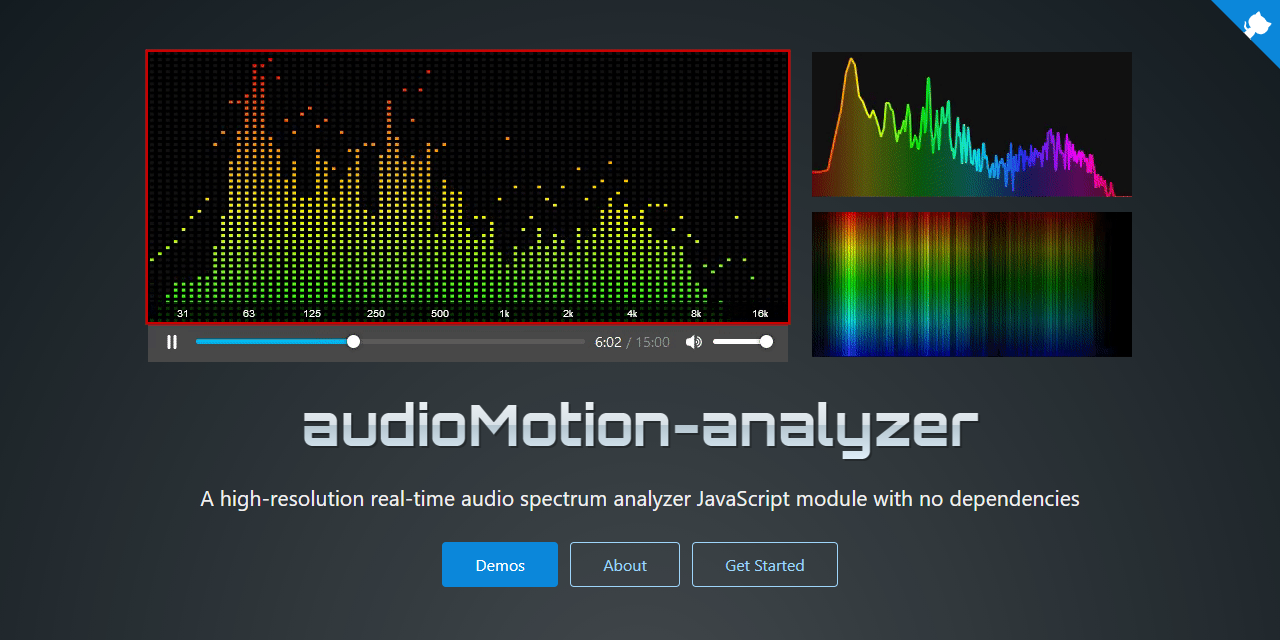
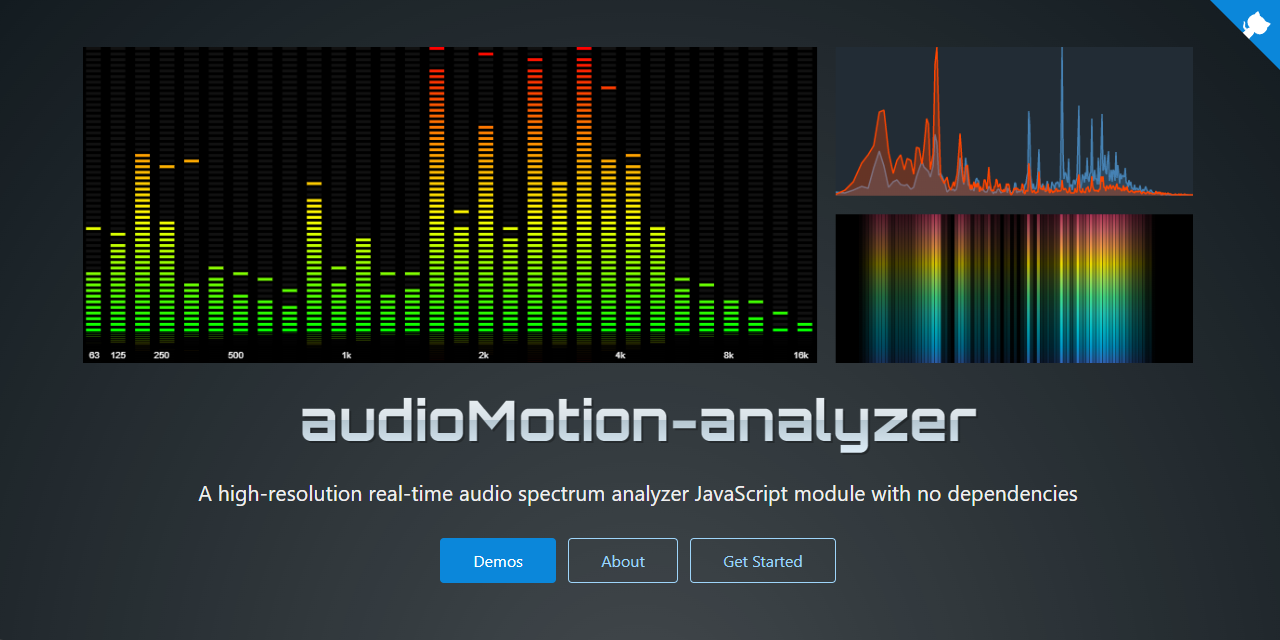
Update coverpage animation and project's cover image.

diff --git a/README.md b/README.md
@@ -39,7 +39,7 @@ What users are saying:
 
 ## Online demos
 
-[![demo-animation](img/demo.gif)](https://audiomotion.dev/demo/)
+[![demo-animation](img/demo.webp)](https://audiomotion.dev/demo/)
 
 ?> https://audiomotion.dev/demo/
 

diff --git a/coverpage.md b/coverpage.md
@@ -1,4 +1,4 @@
-![demo-animation](img/demo.gif)
+![demo-animation](img/demo.webp)
 
 # audioMotion-analyzer
 
